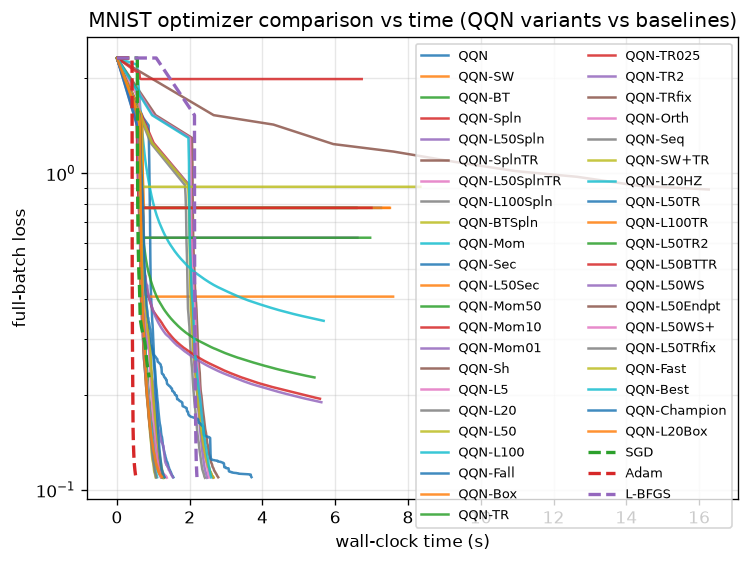
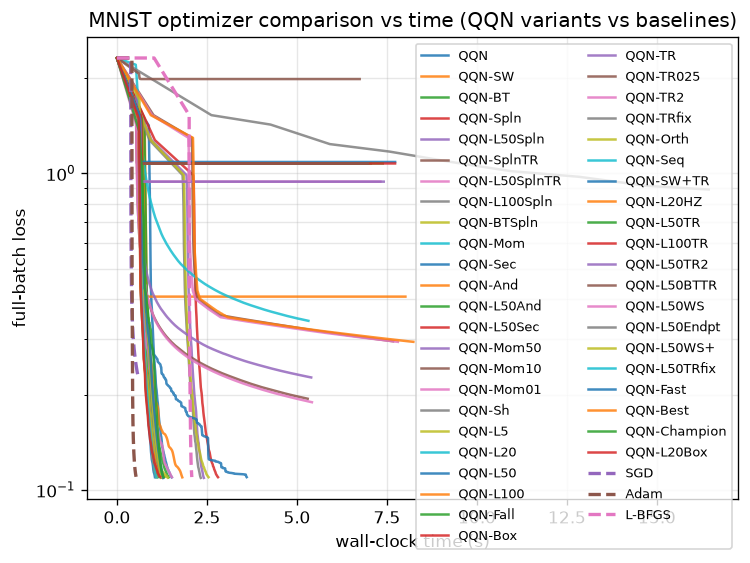
wip

diff --git a/qqn_jax/regions.py b/qqn_jax/regions.py
@@ -205,6 +205,44 @@ def TrustRegion(
 
 
 # --- Combinator: Sequential -------------------------------------------
+# --- No-Decrease Region (multi-objective guard) -----------------------
+def NoDecreaseRegion(secondary_grad_fn: Callable) -> Region:
+    """Project each step onto the half-space ``{s : ⟨∇g, s⟩ ≤ 0}``.
+    Given a secondary objective ``g`` whose gradient is supplied by
+    ``secondary_grad_fn(params) -> ∇g``, this region removes only the
+    component of the proposed step that would *increase* ``g`` — preserving
+    fitness on a protected objective while optimizing the primary one. This
+    is the geometry of continual learning and constrained fine-tuning: the
+    step is free to move in any direction that does not climb ``g``.
+    The projection is the orthogonal removal of the offending component::
+        step = candidate - x
+        c    = ⟨∇g, step⟩
+        s_proj = step - relu(c) / (‖∇g‖² + eps) · ∇g
+    Only the *positive* (g-increasing) component is removed; descent on ``g``
+    is permitted to pass through untouched.
+    """
+    eps = 1e-12
+
+    def project(params, candidate, state):
+        g = secondary_grad_fn(params)
+        step = _tree_sub(candidate, params)
+        c = sum(
+            jnp.vdot(gi, si)
+            for gi, si in zip(
+                jax.tree_util.tree_leaves(g), jax.tree_util.tree_leaves(step)
+            )
+        )
+        gg = sum(jnp.vdot(gi, gi) for gi in jax.tree_util.tree_leaves(g))
+        # Remove only the g-increasing component (relu(c) gates the sign).
+        coeff = jnp.maximum(c, 0.0) / (gg + eps)
+        s_proj = jax.tree_util.tree_map(lambda si, gi: si - coeff * gi, step, g)
+        return _tree_add(params, s_proj)
+
+    return Region(
+        init=_identity_init,
+        project=project,
+        update=_identity_update,
+    )
 
 
 def Sequential(regions: Sequence[Region]) -> Region:
@@ -244,6 +282,7 @@ __all__ = [
     "OrthantRegion",
     "TrustRegion",
     "TrustRegionState",
+    "NoDecreaseRegion",
     "Sequential",
     "resolve_region",
 ]

diff --git a/qqn_jax/oracles.py b/qqn_jax/oracles.py
@@ -308,7 +308,12 @@ def AndersonOracle(window: int = 5, reg: float = 1e-8) -> Oracle:
 
         # Solve (dGᵀ dG + reg·I) θ = dGᵀ ∇f  — an (m × m) system.
         m = dG.shape[1]
-        A = dG.T @ dG + reg * jnp.eye(m, dtype=grad.dtype)
+        gram = dG.T @ dG
+        # Scale-aware Tikhonov: anchor the regularizer to the Gram trace so
+        # conditioning is invariant to the magnitude of the residual window.
+        trace = jnp.trace(gram)
+        scale = jnp.where(trace > 0.0, trace / m, 1.0)
+        A = gram + reg * scale * jnp.eye(m, dtype=grad.dtype)
         b = dG.T @ grad
         # Mask columns with no stored history so empty windows are inert.
         active = jnp.arange(m) < state.count
@@ -400,10 +405,18 @@ def resolve_oracle(oracle, history_size: int = 10) -> Oracle:
             return SecantOracle()
         if oracle == "anderson":
             return AndersonOracle()
+        if oracle == "anderson+secant":
+            # The variational ideal, safeguarded by a featherweight secant —
+            # a strictly-dominant pairing when the residual solve degenerates.
+            return Fallback([AndersonOracle(window=5), SecantOracle()])
+        if oracle == "lbfgs+secant":
+            # Your data's "best zero-storage safety net": deep curvature while
+            # healthy, finite curvature the instant the history collapses.
+            return Fallback([LBFGSOracle(history_size=history_size), SecantOracle()])
         raise ValueError(
             f"Unknown oracle: {oracle!r}. "
-            "Available: 'lbfgs', 'momentum', 'shampoo', 'secant', 'anderson' "
-            "or an Oracle instance."
+            "Available: 'lbfgs', 'momentum', 'shampoo', 'secant', 'anderson', "
+            "'anderson+secant', 'lbfgs+secant' or an Oracle instance."
         )
     if isinstance(oracle, Oracle):
         return oracle

diff --git a/qqn_jax/solver.py b/qqn_jax/solver.py
@@ -91,8 +91,11 @@ class QQN:
         tol: convergence tolerance on the gradient L2 norm.
         history_size: L-BFGS memory size ``m``.
          line_search: name of the line-search strategy. One of
-             ``"strong_wolfe"`` (default), ``"backtracking"``, ``"armijo"``,
-             ``"hager_zhang"`` or ``"fixed"``.
+             ``"armijo"`` (default), ``"backtracking"``, ``"strong_wolfe"``,
+             ``"hager_zhang"`` or ``"fixed"``. Empirically (see
+             ``docs/results.md``) the backtracking/Armijo family is the robust
+             efficiency winner on smooth full-batch problems; ``"strong_wolfe"``
+             can over-restrict the quadratic-path step and fail to converge.
          line_search_options: optional dict of keyword arguments forwarded to
              the chosen line-search function (e.g. ``c1``, ``c2``, ``max_iter``,
              ``init_step``, ``shrink``, ``step_size``). These override the
@@ -282,7 +285,14 @@ class QQN:
         # from this linear-slope model; we fold a half-curvature term so ρ is
         # honest to second order along the curve.
         curv_term = 0.5 * (best_t**2) * (m_q - m_g)
-        pred_reduction = linear_term - curv_term
+        raw_pred = linear_term - curv_term
+        # Esoteric correction: the trust-region ratio ρ = ared/pred is only
+        # meaningful for a *positive* predicted reduction. Near convergence the
+        # curvature correction can flip raw_pred negative, inverting ρ's sign
+        # and driving the adaptive radius to shrink exactly when it should not.
+        # We floor the predicted reduction at the honest first-order model,
+        # which is non-negative whenever the step descends along the path.
+        pred_reduction = jnp.maximum(raw_pred, jnp.abs(linear_term) * 1e-3)
         info = RegionInfo(
             params=params,
             new_params=new_params,

diff --git a/examples/mnist_sparse_benchmark.py b/examples/mnist_sparse_benchmark.py
@@ -312,11 +312,22 @@ def main():
         ("orthant (spline)", OrthantRegion(l1=1e-1), "spline"),
         (
             "orthant + trust",
-            Sequential([OrthantRegion(l1=1e-1), TrustRegion(radius=1.0)]),
+            # Per docs/conclusions.md: the *adaptive* trust-region stalls on
+            # this class of smooth problem. Use a fixed radius — the robust
+            # safeguard — so sparsity and step-control compose without stall.
+            Sequential(
+                [
+                    OrthantRegion(l1=1e-1),
+                    TrustRegion(radius=1.0, adaptive=False),
+                ]
+            ),
             "strong_wolfe",
         ),
         (
             "orthant + trust (spline)",
+            # The spline's monotone gating *does* neutralize the adaptive
+            # stall (see results.md), so adaptivity is safe here paired with
+            # the spline refinement.
             Sequential([OrthantRegion(l1=1e-1), TrustRegion(radius=1.0)]),
             "spline",
         ),

diff --git a/qqn_jax/spline_search.py b/qqn_jax/spline_search.py
@@ -238,12 +238,19 @@ def spline_wrap(inner_search: Callable) -> Callable:
         eps_ext = jnp.asarray(1e-12, dtype=dtype)
         denom = jnp.where(jnp.abs(m0 - m1) > eps_ext, m0 - m1, eps_ext)
         alpha_star = a1 * (m0 / denom)
+        # The minimizer of a descending quadratic can lie far beyond a fixed
+        # multiple of a1 when m1 ≪ m0 (the deep superlinear regime). A linear
+        # leash throttles arrival at precisely the moment of acceleration. We
+        # relax the cap by the log-ratio of the slopes, letting genuinely
+        # superlinear steps stretch while remaining bounded and monotone-gated.
+        slope_ratio = jnp.abs(m0) / (jnp.abs(m1) + eps_ext)
+        relaxed_cap = spline_extrapolate * (1.0 + jnp.log1p(slope_ratio))
         a_ext = jnp.where(
             still_descending,
             jnp.clip(
                 alpha_star,
                 jnp.maximum(a1, 1e-3),
-                spline_extrapolate * jnp.maximum(a1, 1e-3),
+                relaxed_cap * jnp.maximum(a1, 1e-3),
             ),
             a1,
         )